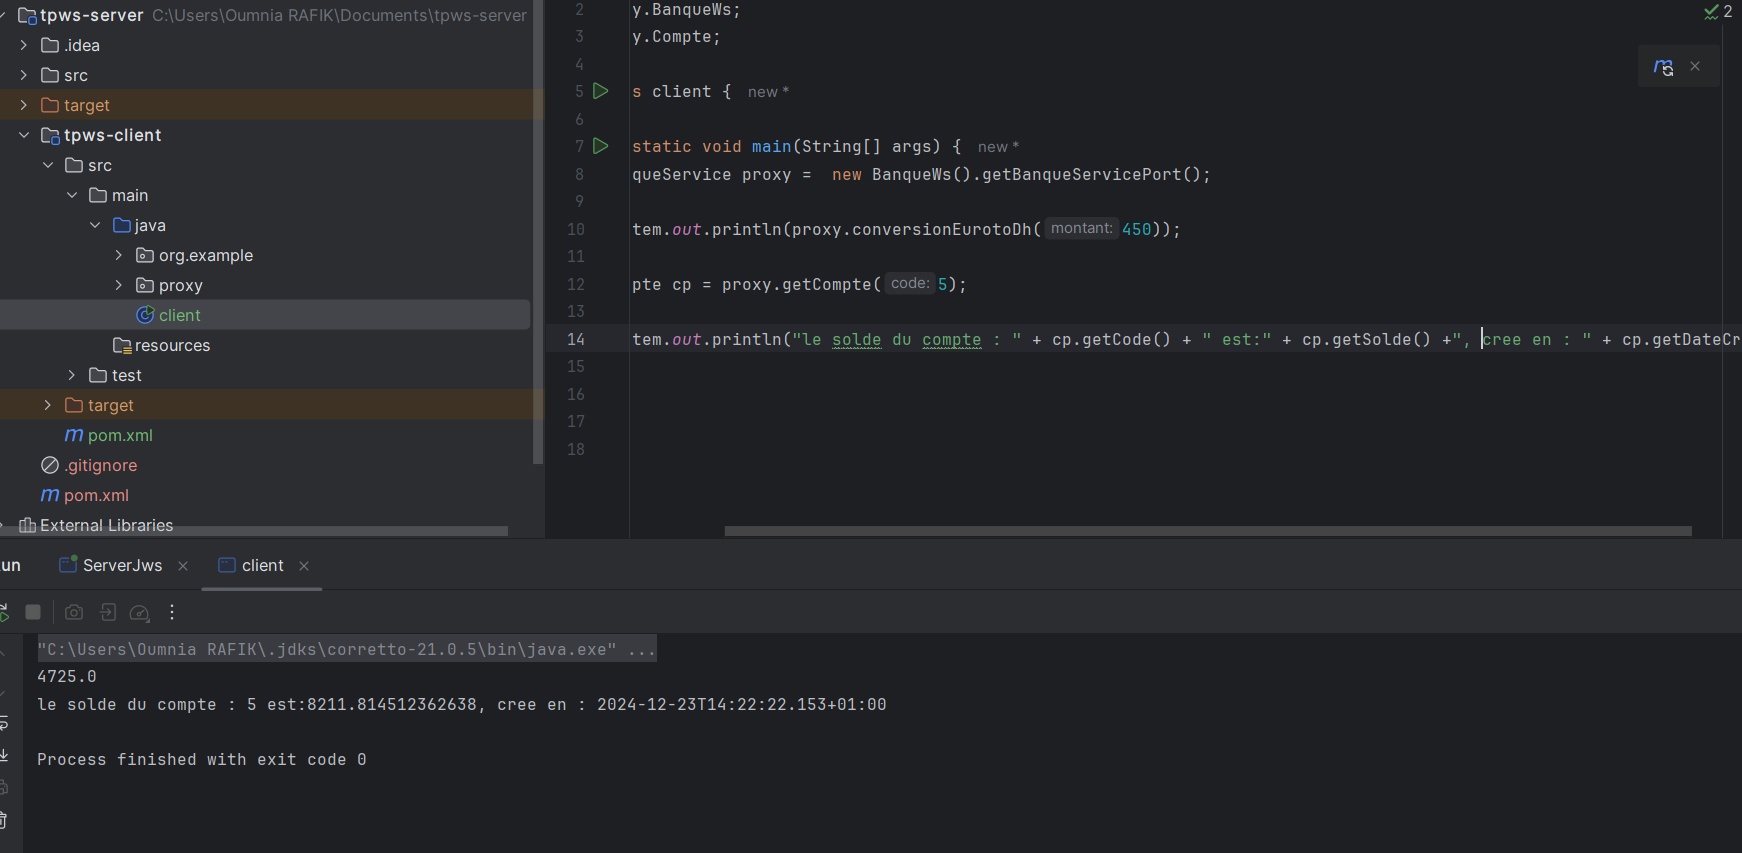
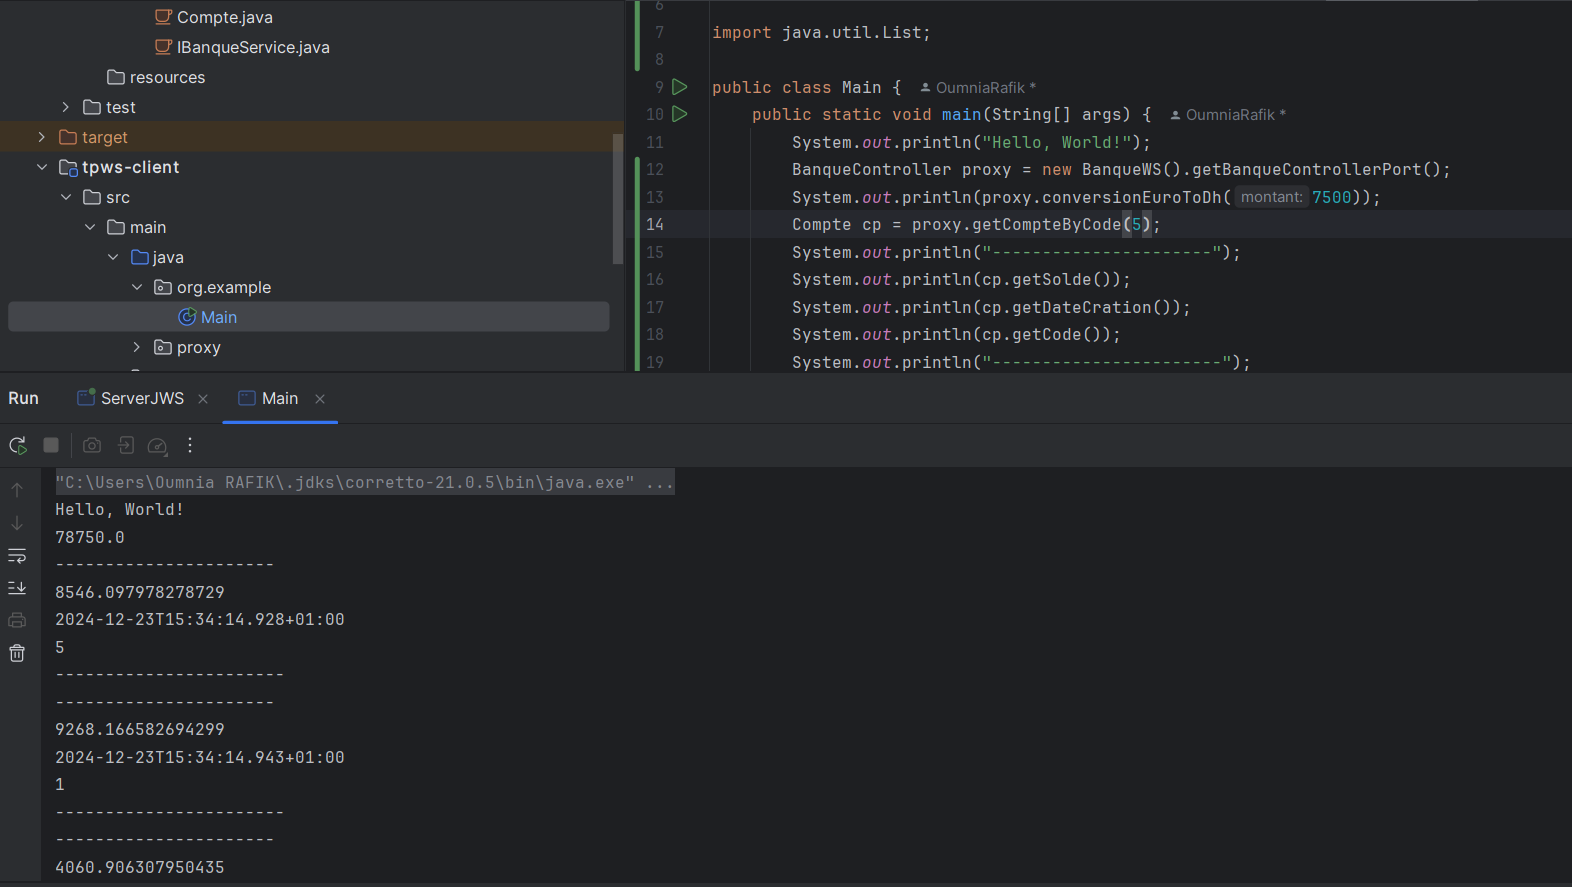
display proxy infos

diff --git a/tpws-client/src/main/java/org/example/Main.java b/tpws-client/src/main/java/org/example/Main.java
@@ -1,7 +1,29 @@
 package org.example;
 
+import proxy.BanqueController;
+import proxy.BanqueWS;
+import proxy.Compte;
+
+import java.util.List;
+
 public class Main {
     public static void main(String[] args) {
         System.out.println("Hello, World!");
+        BanqueController proxy = new BanqueWS().getBanqueControllerPort();
+        System.out.println(proxy.conversionEuroToDh(7500));
+        Compte cp = proxy.getCompteByCode(5);
+        System.out.println("----------------------");
+        System.out.println(cp.getSolde());
+        System.out.println(cp.getDateCration());
+        System.out.println(cp.getCode());
+        System.out.println("-----------------------");
+        List<Compte> compteList = proxy.listComptes();
+        compteList.forEach(c->{
+            System.out.println("----------------------");
+            System.out.println(c.getSolde());
+            System.out.println(c.getDateCration());
+            System.out.println(c.getCode());
+            System.out.println("-----------------------");
+        });
     }
 }
